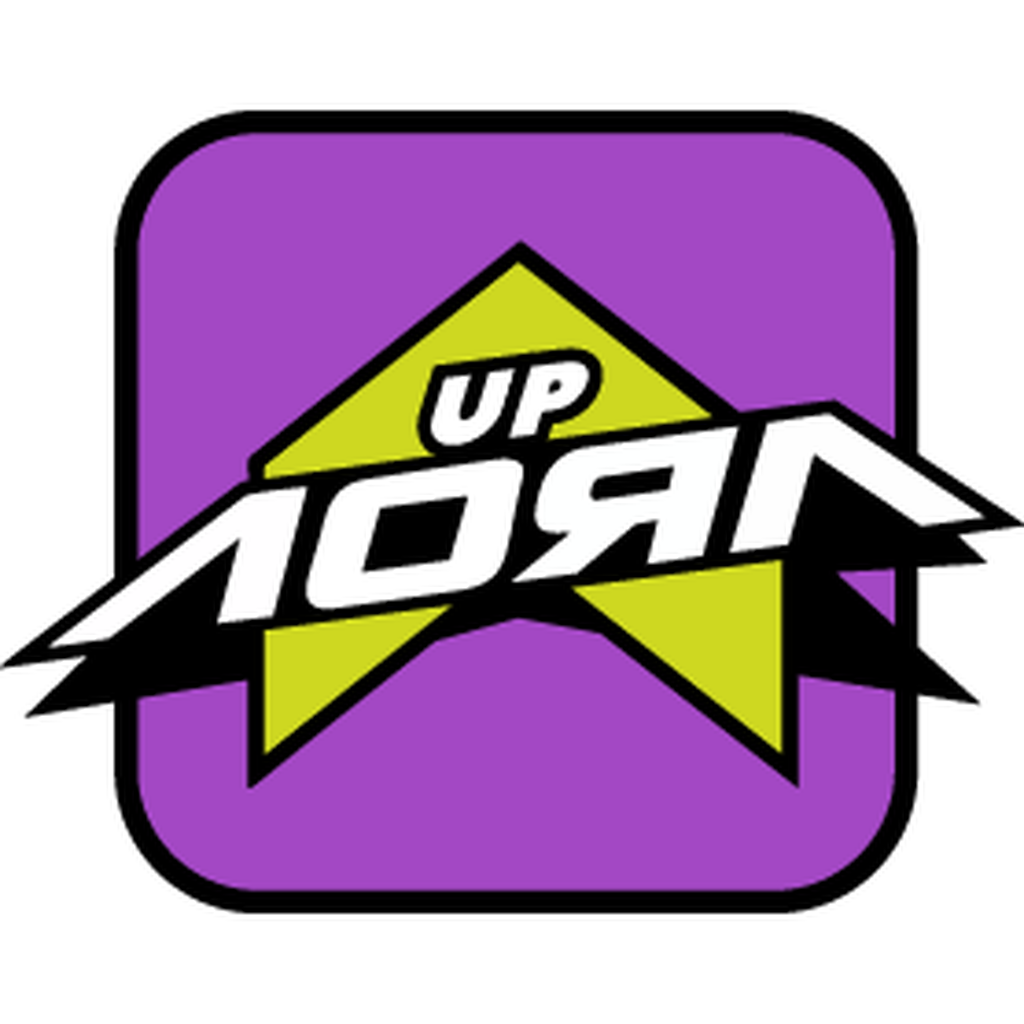
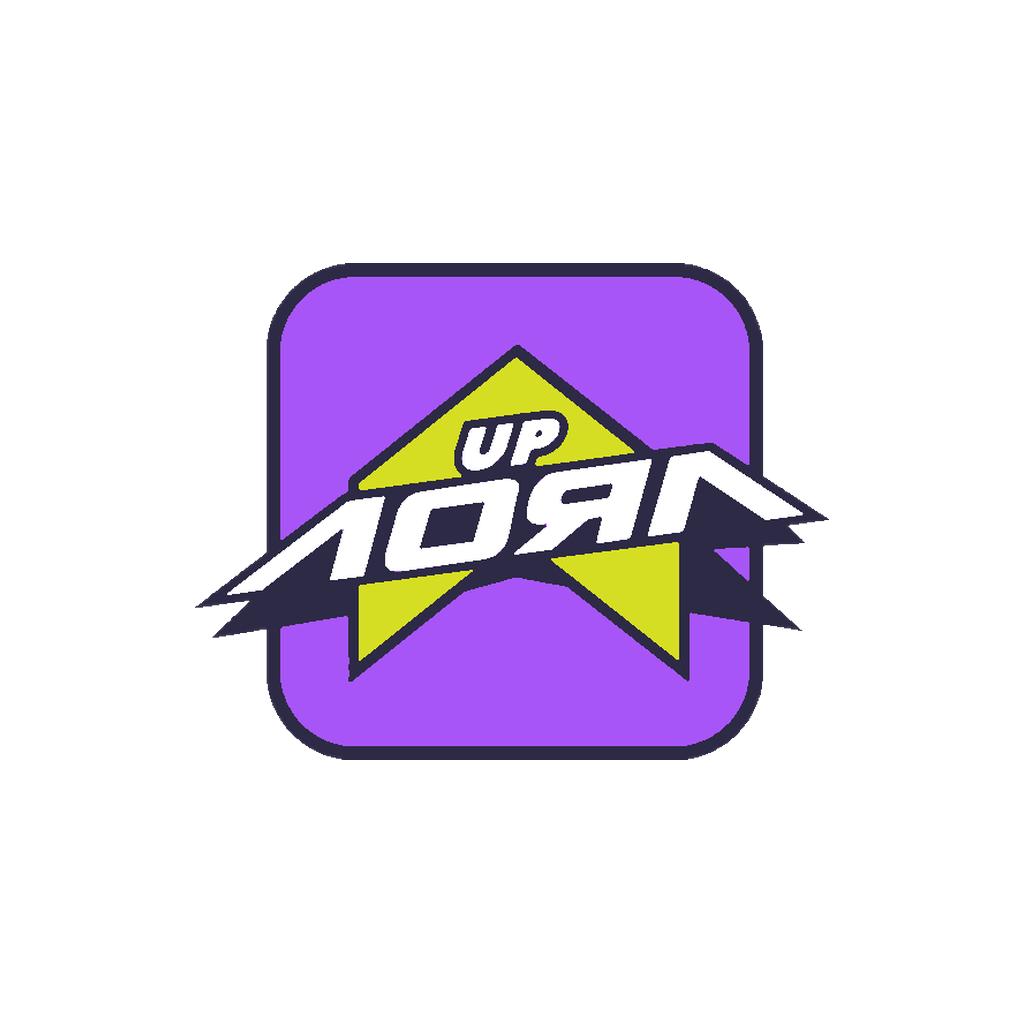
feat(mobile): nativnaya zastavka raketa + Lottie-splash + realnyy logotip
- splash «Start rakety»: nativnyy PNG (#1A0B2E) -> Lottie intro 0-132 -> idle-loop 132-252 -> fade-out
- SplashGate.tsx: igraet intro, potom idle; pryachet nativnyy splash po onLayout (besshovno); Boundary-fallback esli net lottie
- app.json: splash bg #A855F7 -> #1A0B2E
- realnyy logotip LoyalUpLogo.png na ekranah vhoda i vybora (vmesto tekstovyh zaglushek)
- novye icon/adaptive-icon/splash-icon/favicon

diff --git a/MOBILE_TESTFLIGHT_app/rf-mobile/src/components/SplashGate.tsx b/MOBILE_TESTFLIGHT_app/rf-mobile/src/components/SplashGate.tsx
@@ -1,0 +1,71 @@
+import React from 'react';
+import { StyleSheet, Animated } from 'react-native';
+import LottieView from 'lottie-react-native';
+
+// Lottie-заставка «Старт ракеты». Тайминг из README (60 fps):
+//   intro 0–132 (2.2с) → idle-loop 132–252 (бесшовный).
+const SPLASH = require('../../assets/splash.json');
+const INTRO_START = 0;
+const INTRO_END = 132;
+const IDLE_START = 132;
+const IDLE_END = 252;
+const BG = '#1A0B2E'; // совпадает с нативным splash → бесшовный переход
+
+// На старом билде без нативного lottie рендерим просто фон (не краш).
+class Boundary extends React.Component<
+  { fallback: React.ReactNode; children: React.ReactNode },
+  { failed: boolean }
+> {
+  state = { failed: false };
+  static getDerivedStateFromError() { return { failed: true }; }
+  componentDidCatch() {}
+  render() { return this.state.failed ? this.props.fallback : this.props.children; }
+}
+
+export const SplashGate: React.FC<{
+  onReady?: () => void;   // оверлей на экране → можно прятать нативный splash
+  onDone?: () => void;    // после fade-out → размонтировать
+  minVisibleMs?: number;
+}> = ({ onReady, onDone, minVisibleMs = 2300 }) => {
+  const ref = React.useRef<LottieView>(null);
+  const started = React.useRef(false);
+  const opacity = React.useRef(new Animated.Value(1)).current;
+  const [gone, setGone] = React.useState(false);
+
+  React.useEffect(() => {
+    const t = setTimeout(() => {
+      Animated.timing(opacity, { toValue: 0, duration: 450, useNativeDriver: true })
+        .start(() => { setGone(true); onDone?.(); });
+    }, minVisibleMs);
+    return () => clearTimeout(t);
+  }, []);
+
+  if (gone) return null;
+
+  return (
+    <Animated.View
+      style={[StyleSheet.absoluteFill, styles.root, { opacity }]}
+      onLayout={() => onReady?.()}
+    >
+      <Boundary fallback={null}>
+        <LottieView
+          ref={ref}
+          source={SPLASH}
+          autoPlay={false}
+          loop={false}
+          resizeMode="cover"
+          style={styles.lottie}
+          onLayout={() => {
+            if (!started.current) { started.current = true; ref.current?.play(INTRO_START, INTRO_END); }
+          }}
+          onAnimationFinish={() => { ref.current?.play(IDLE_START, IDLE_END); }}
+        />
+      </Boundary>
+    </Animated.View>
+  );
+};
+
+const styles = StyleSheet.create({
+  root: { backgroundColor: BG, alignItems: 'center', justifyContent: 'center' },
+  lottie: { width: '100%', height: '100%' },
+});

diff --git a/MOBILE_TESTFLIGHT_app/rf-mobile/App.tsx b/MOBILE_TESTFLIGHT_app/rf-mobile/App.tsx
@@ -67,6 +67,7 @@ import { BirthdaysScreen } from './src/screens/BirthdaysScreen';
 import { EngagementAnalyticsScreen } from './src/screens/EngagementAnalyticsScreen';
 import { TabBar } from './src/components/TabBar';
 import { LoyalchikAssistant } from './src/components/LoyalchikAssistant';
+import { SplashGate } from './src/components/SplashGate';
 
 export { setAuthToken } from './src/api';
 
@@ -91,20 +92,25 @@ export default function App() {
 
   useEffect(() => { checkAndApplyUpdate(); }, []);
 
-  const onLayoutRootView = useCallback(async () => {
-    if (fontsLoaded) await SplashScreen.hideAsync();
-  }, [fontsLoaded]);
+  const [splashGone, setSplashGone] = useState(false);
 
-  useEffect(() => { onLayoutRootView(); }, [onLayoutRootView]);
+  // Нативный splash прячем не сразу, а когда Lottie-оверлей уже на экране —
+  // иначе между нативной заставкой и анимацией мелькнёт пустой кадр.
+  const hideNativeSplash = useCallback(() => {
+    SplashScreen.hideAsync().catch(() => {});
+  }, []);
 
   if (!fontsLoaded) return null;
 
   return (
     <SafeAreaProvider>
-      <View style={{ flex: 1, backgroundColor: C.paper }} onLayout={onLayoutRootView}>
+      <View style={{ flex: 1, backgroundColor: C.paper }}>
         <OfflineBanner />
         <AuthGate />
       </View>
+      {!splashGone && (
+        <SplashGate onReady={hideNativeSplash} onDone={() => setSplashGone(true)} />
+      )}
     </SafeAreaProvider>
   );
 }

diff --git a/MOBILE_TESTFLIGHT_app/rf-mobile/src/screens/AuthScreen.tsx b/MOBILE_TESTFLIGHT_app/rf-mobile/src/screens/AuthScreen.tsx
@@ -1,7 +1,7 @@
 import React, { useMemo, useState } from 'react';
 import {
   View, Text, Pressable, TextInput, ScrollView, ActivityIndicator,
-  KeyboardAvoidingView, Platform, Alert,
+  KeyboardAvoidingView, Platform, Alert, Image,
 } from 'react-native';
 import { StatusBar } from 'expo-status-bar';
 import { SafeAreaView } from 'react-native-safe-area-context';
@@ -81,10 +81,11 @@ export const AuthScreen: React.FC<{
         >
           {/* Logo */}
           <View style={s.authLogo}>
-            <View style={s.authLogoIcon}>
-              <Text style={{ fontFamily: 'Manrope_800ExtraBold', fontSize: 28, color: C.surface, letterSpacing: -1 }}>Л</Text>
-            </View>
-            <Text style={s.authLogoText}>ЛоялUP</Text>
+            <Image
+              source={require('../../assets/LoyalUpLogo.png')}
+              style={{ width: 200, height: 157, resizeMode: 'contain' }}
+              accessibilityLabel="ЛоялUP"
+            />
           </View>
 
           <Text style={s.authTitle}>Вход в кабинет</Text>

diff --git a/MOBILE_TESTFLIGHT_app/rf-mobile/src/screens/ChoiceScreen.tsx b/MOBILE_TESTFLIGHT_app/rf-mobile/src/screens/ChoiceScreen.tsx
@@ -30,10 +30,11 @@ export const ChoiceScreen: React.FC<{
       >
         {/* Hero */}
         <View style={s.hero}>
-          <View style={s.logoMark}>
-            <Text style={s.logoMarkText}>Л</Text>
-          </View>
-          <Text style={s.brand}>ЛоялUP</Text>
+          <Image
+            source={require('../../assets/LoyalUpLogo.png')}
+            style={{ width: 200, height: 157, resizeMode: 'contain', marginBottom: 8 }}
+            accessibilityLabel="ЛоялUP"
+          />
           <Text style={s.tagline}>
             Программа лояльности на автопилоте — для кафе, баров, кофеен
           </Text>
